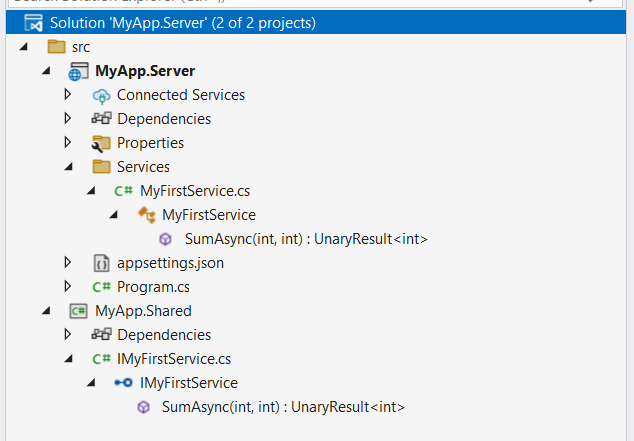
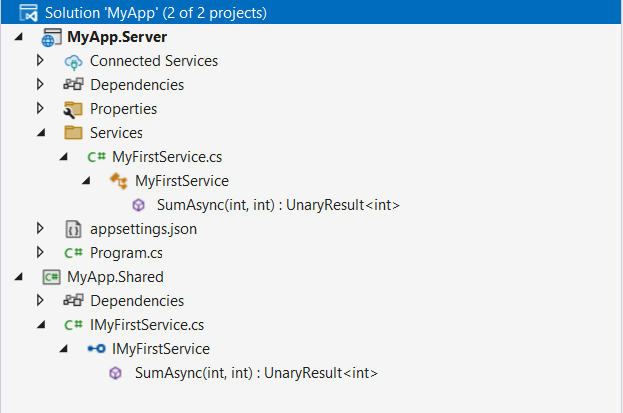
Update docs

Changed region(s): [[0.0, 0.0, 1.0, 1.0], [0.1525, 0.4649, 0.183, 0.4939]]

diff --git a/docs/docs/quickstart-unity.md b/docs/docs/quickstart-unity.md
@@ -52,8 +52,8 @@ You can create a solution, server project, and shared library project, and add M
     dotnet new classlib -f netstandard2.1 -o src/%MO_PROJECT_NAME%.Shared -n %MO_PROJECT_NAME%.Shared
 
     dotnet new sln -n %MO_PROJECT_NAME%
-    dotnet sln add src/%MO_PROJECT_NAME%.Server
-    dotnet sln add src/%MO_PROJECT_NAME%.Shared
+    dotnet sln add src/%MO_PROJECT_NAME%.Server --in-root
+    dotnet sln add src/%MO_PROJECT_NAME%.Shared --in-root
 
     pushd src\%MO_PROJECT_NAME%.Server
     dotnet remove package Grpc.AspNetCore
@@ -75,8 +75,8 @@ You can create a solution, server project, and shared library project, and add M
     dotnet new classlib -f netstandard2.1 -o "src/$MO_PROJECT_NAME.Shared" -n "$MO_PROJECT_NAME.Shared"
 
     dotnet new sln -n "$MO_PROJECT_NAME"
-    dotnet sln add "src/$MO_PROJECT_NAME.Server"
-    dotnet sln add "src/$MO_PROJECT_NAME.Shared"
+    dotnet sln add "src/$MO_PROJECT_NAME.Server" --in-root
+    dotnet sln add "src/$MO_PROJECT_NAME.Shared" --in-root
 
     pushd "src/$MO_PROJECT_NAME.Server"
     dotnet remove package Grpc.AspNetCore
@@ -98,8 +98,8 @@ You can create a solution, server project, and shared library project, and add M
     dotnet new classlib -f netstandard2.1 -o src/$MO_PROJECT_NAME.Shared -n $MO_PROJECT_NAME.Shared
 
     dotnet new sln -n $MO_PROJECT_NAME
-    dotnet sln add src/$MO_PROJECT_NAME.Server
-    dotnet sln add src/$MO_PROJECT_NAME.Shared
+    dotnet sln add src/$MO_PROJECT_NAME.Server --in-root
+    dotnet sln add src/$MO_PROJECT_NAME.Shared --in-root
 
     pushd src/$MO_PROJECT_NAME.Server
     dotnet remove package Grpc.AspNetCore
@@ -402,6 +402,10 @@ Next, add an Assembly Definition file to make it a separate assembly in Unity. A
 }
 ```
 
+:::note
+The file name of the Assembly Definition file is used as the project name when opening the project from Unity. Therefore, it is recommended to add a `.Unity` suffix to distinguish it from `MyApp.Shared`.
+:::
+
 Finally, add `Directory.Build.props` and `Directory.Build.targets` to the `MyApp.Shared` project. These files are used to configure the project not to output folders such as `bin` and `obj` (instead, output to `.artifacts`) and to hide Unity-specific files from the IDE.
 
 ```xml title="src/MyApp.Shared/Directory.Build.props"
@@ -460,7 +464,7 @@ With these steps, the `MyApp.Shared` project should have the following file stru
 
 `MyApp.Shared` has been made available as a local package, so you need to add a reference to the local package in the Unity project.
 
-To add a reference to a local package, add the path to the package in `MyApp.Unity/Packages/manifest.json`. Here, add `file:../../MyApp.Shared` as the path to the package.
+To add a reference to a local package, add the path to the package in `MyApp.Unity/Packages/manifest.json`. Here, add `file:../../MyApp.Shared` as the relative path to the package.
 
 ```json title="src/MyApp.Unity/Packages/manifest.json"
 {
